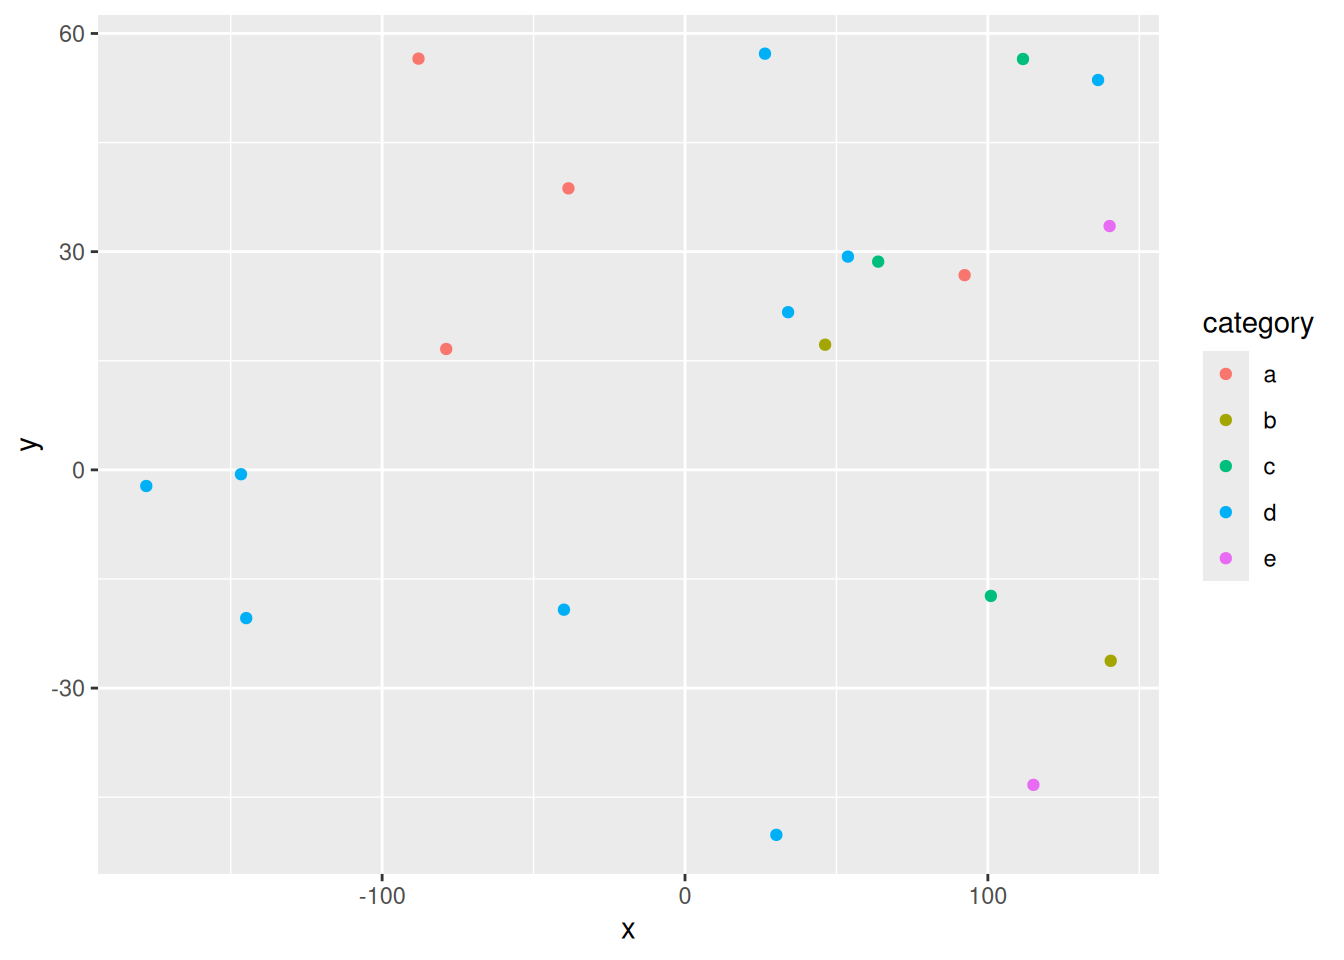
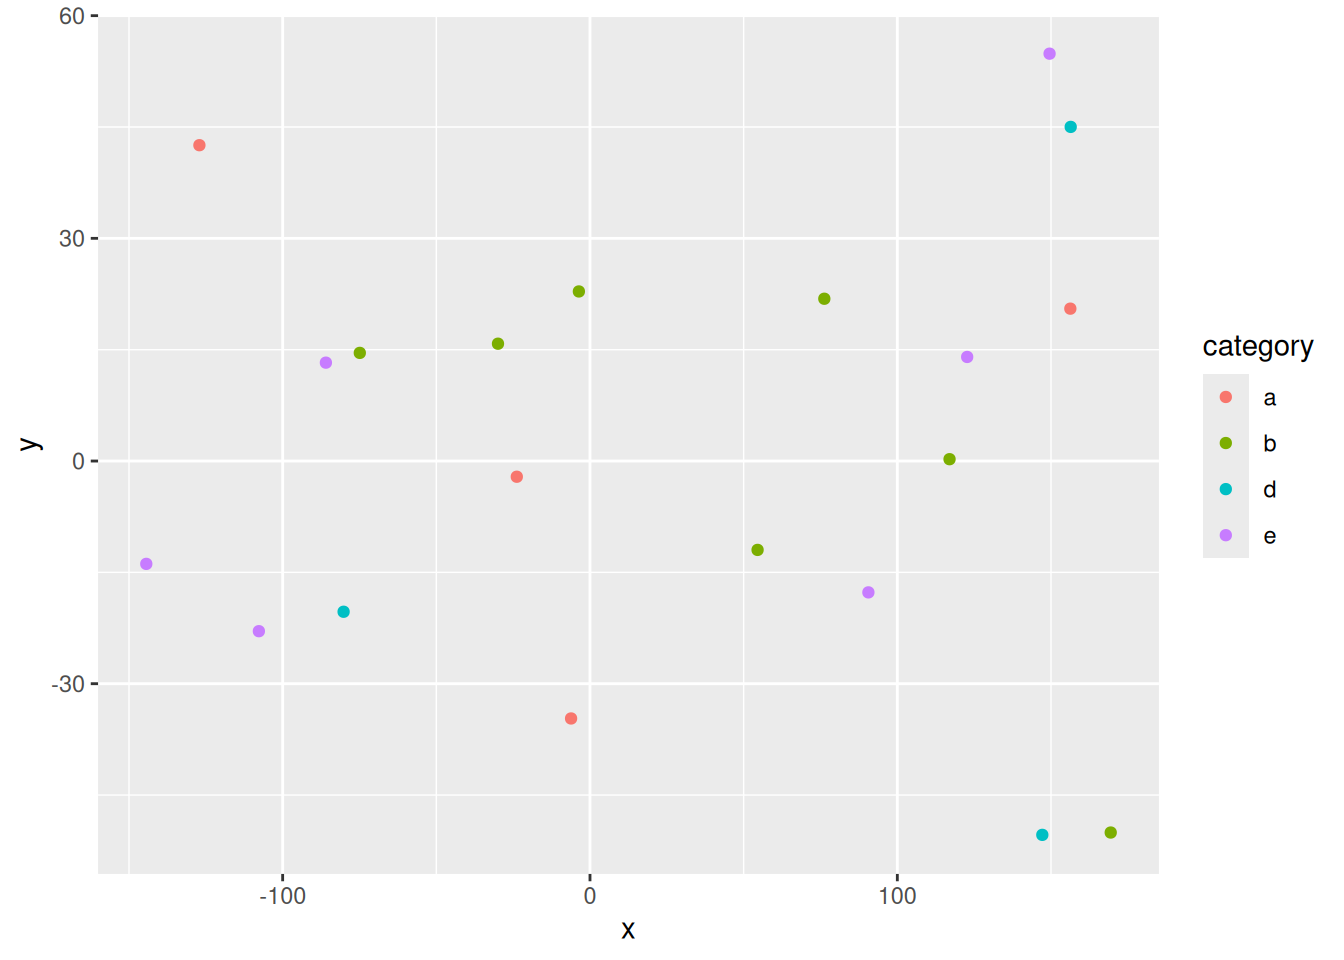
Built site for gh-pages

diff --git a/index.html b/index.html
@@ -7,7 +7,7 @@
 <meta name="viewport" content="width=device-width, initial-scale=1.0, user-scalable=yes">
 
 <meta name="author" content="Your name here">
-<meta name="dcterms.date" content="2025-10-23">
+<meta name="dcterms.date" content="2025-11-01">
 
 <title>My Final Project Template – GEO511_FinalProject</title>
 <style>
@@ -190,7 +190,7 @@ pre > code.sourceCode > span > a:first-child::before { text-decoration: underlin
     <div>
     <div class="quarto-title-meta-heading">Published</div>
     <div class="quarto-title-meta-contents">
-      <p class="date">October 23, 2025</p>
+      <p class="date">November 1, 2025</p>
     </div>
   </div>
   
@@ -271,74 +271,74 @@ pre > code.sourceCode > span > a:first-child::before { text-decoration: underlin
 </thead>
 <tbody>
 <tr class="odd">
-<td style="text-align: center;">53.79</td>
-<td style="text-align: center;">29.32</td>
-<td style="text-align: center;">12.93</td>
-<td style="text-align: center;">d</td>
-<td style="text-align: center;">-1.07</td>
-</tr>
-<tr class="even">
-<td style="text-align: center;">-177.87</td>
-<td style="text-align: center;">-2.22</td>
-<td style="text-align: center;">6.03</td>
-<td style="text-align: center;">d</td>
-<td style="text-align: center;">-0.33</td>
-</tr>
-<tr class="odd">
-<td style="text-align: center;">26.41</td>
-<td style="text-align: center;">57.22</td>
-<td style="text-align: center;">10.30</td>
-<td style="text-align: center;">d</td>
-<td style="text-align: center;">0.57</td>
-</tr>
-<tr class="even">
-<td style="text-align: center;">-144.87</td>
-<td style="text-align: center;">-20.38</td>
-<td style="text-align: center;">19.46</td>
-<td style="text-align: center;">d</td>
-<td style="text-align: center;">0.09</td>
-</tr>
-<tr class="odd">
-<td style="text-align: center;">-39.97</td>
-<td style="text-align: center;">-19.22</td>
-<td style="text-align: center;">6.67</td>
-<td style="text-align: center;">d</td>
-<td style="text-align: center;">1.36</td>
-</tr>
-<tr class="even">
-<td style="text-align: center;">111.60</td>
-<td style="text-align: center;">56.49</td>
-<td style="text-align: center;">15.22</td>
-<td style="text-align: center;">c</td>
-<td style="text-align: center;">-1.84</td>
-</tr>
-<tr class="odd">
-<td style="text-align: center;">136.38</td>
-<td style="text-align: center;">53.60</td>
-<td style="text-align: center;">12.09</td>
-<td style="text-align: center;">d</td>
-<td style="text-align: center;">-0.33</td>
-</tr>
-<tr class="even">
-<td style="text-align: center;">30.16</td>
-<td style="text-align: center;">-50.18</td>
-<td style="text-align: center;">5.21</td>
-<td style="text-align: center;">d</td>
-<td style="text-align: center;">0.28</td>
-</tr>
-<tr class="odd">
-<td style="text-align: center;">115.04</td>
-<td style="text-align: center;">-43.30</td>
-<td style="text-align: center;">15.40</td>
+<td style="text-align: center;">122.73</td>
+<td style="text-align: center;">14.02</td>
+<td style="text-align: center;">15.10</td>
 <td style="text-align: center;">e</td>
-<td style="text-align: center;">2.83</td>
+<td style="text-align: center;">0.02</td>
 </tr>
 <tr class="even">
-<td style="text-align: center;">34.04</td>
-<td style="text-align: center;">21.68</td>
-<td style="text-align: center;">8.04</td>
+<td style="text-align: center;">-3.62</td>
+<td style="text-align: center;">22.84</td>
+<td style="text-align: center;">8.61</td>
+<td style="text-align: center;">b</td>
+<td style="text-align: center;">-0.11</td>
+</tr>
+<tr class="odd">
+<td style="text-align: center;">90.58</td>
+<td style="text-align: center;">-17.70</td>
+<td style="text-align: center;">17.40</td>
+<td style="text-align: center;">e</td>
+<td style="text-align: center;">-0.24</td>
+</tr>
+<tr class="even">
+<td style="text-align: center;">147.18</td>
+<td style="text-align: center;">-50.37</td>
+<td style="text-align: center;">6.66</td>
 <td style="text-align: center;">d</td>
-<td style="text-align: center;">0.13</td>
+<td style="text-align: center;">1.54</td>
+</tr>
+<tr class="odd">
+<td style="text-align: center;">-74.90</td>
+<td style="text-align: center;">14.57</td>
+<td style="text-align: center;">15.55</td>
+<td style="text-align: center;">b</td>
+<td style="text-align: center;">-1.93</td>
+</tr>
+<tr class="even">
+<td style="text-align: center;">-23.82</td>
+<td style="text-align: center;">-2.12</td>
+<td style="text-align: center;">18.98</td>
+<td style="text-align: center;">a</td>
+<td style="text-align: center;">-0.53</td>
+</tr>
+<tr class="odd">
+<td style="text-align: center;">-85.93</td>
+<td style="text-align: center;">13.25</td>
+<td style="text-align: center;">18.42</td>
+<td style="text-align: center;">e</td>
+<td style="text-align: center;">0.23</td>
+</tr>
+<tr class="even">
+<td style="text-align: center;">-107.74</td>
+<td style="text-align: center;">-22.92</td>
+<td style="text-align: center;">16.77</td>
+<td style="text-align: center;">e</td>
+<td style="text-align: center;">0.87</td>
+</tr>
+<tr class="odd">
+<td style="text-align: center;">76.25</td>
+<td style="text-align: center;">21.86</td>
+<td style="text-align: center;">16.49</td>
+<td style="text-align: center;">b</td>
+<td style="text-align: center;">0.36</td>
+</tr>
+<tr class="even">
+<td style="text-align: center;">156.41</td>
+<td style="text-align: center;">45.01</td>
+<td style="text-align: center;">6.90</td>
+<td style="text-align: center;">d</td>
+<td style="text-align: center;">0.63</td>
 </tr>
 </tbody>
 </table>
@@ -358,8 +358,8 @@ pre > code.sourceCode > span > a:first-child::before { text-decoration: underlin
 <span id="cb5-4"><a href="#cb5-4" aria-hidden="true" tabindex="-1"></a>  <span class="fu">addPopups</span>(<span class="sc">~</span>x[<span class="dv">2</span>], <span class="sc">~</span>y[<span class="dv">2</span>], <span class="st">"Random popup"</span>)</span>
 <span id="cb5-5"><a href="#cb5-5" aria-hidden="true" tabindex="-1"></a>m  <span class="co"># a map with the default OSM tile layer</span></span></code></pre></div><button title="Copy to Clipboard" class="code-copy-button"><i class="bi"></i></button></div>
 <div class="cell-output-display">
-<div class="leaflet html-widget html-fill-item" id="htmlwidget-3500131f43f1b51f72bf" style="width:100%;height:325px;"></div>
-<script type="application/json" data-for="htmlwidget-3500131f43f1b51f72bf">{"x":{"options":{"crs":{"crsClass":"L.CRS.EPSG3857","code":null,"proj4def":null,"projectedBounds":null,"options":{}}},"calls":[{"method":"addTiles","args":["https://{s}.tile.openstreetmap.org/{z}/{x}/{y}.png",null,null,{"minZoom":0,"maxZoom":18,"tileSize":256,"subdomains":"abc","errorTileUrl":"","tms":false,"noWrap":false,"zoomOffset":0,"zoomReverse":false,"opacity":1,"zIndex":1,"detectRetina":false,"attribution":"&copy; <a href=\"https://openstreetmap.org/copyright/\">OpenStreetMap<\/a>,  <a href=\"https://opendatacommons.org/licenses/odbl/\">ODbL<\/a>"}]},{"method":"addCircleMarkers","args":[[29.32143260724843,-2.217056108638644,57.22122785635293,-20.38027443923056,-19.22183451242745,56.48714544251561,53.60004108399153,-50.18150324933231,-43.30370276235044,21.67820437811315,33.52087682113051,28.62943145446479,56.54016640037298,16.61862932145596,-17.33095253817737,-26.25238973647356,26.77203113213181,-0.5999741144478321,17.20906298607588,38.70516300201416],[53.78805935382843,-177.8660380281508,26.41120305284858,-144.865376483649,-39.96949796564877,111.5983105637133,136.3840375375003,30.16264208592474,115.0356755778193,34.03960238210857,140.1912639196962,63.78247238695621,-87.98833577893674,-78.8395537622273,100.9929083380848,140.5605056136847,92.32321000657976,-146.5976640768349,46.26656021922827,-38.4827397018671],[12.93352014850825,6.034817178733647,10.30200644163415,19.46151993819512,6.674930345034227,15.21806569653563,12.08990148035809,5.20958787179552,15.40103744948283,8.03518156753853,18.64350995398127,10.58376577566378,19.494179940084,9.645543943624943,7.847512232838199,10.61626432463527,18.99728662101552,6.590229156427085,12.28545587393455,15.88225798564963],null,null,{"interactive":true,"className":"","stroke":true,"color":["d","d","d","d","d","c","d","d","e","d","e","c","a","a","c","b","a","d","b","a"],"weight":5,"opacity":0.5,"fill":true,"fillColor":["d","d","d","d","d","c","d","d","e","d","e","c","a","a","c","b","a","d","b","a"],"fillOpacity":0.2},null,null,null,null,null,{"interactive":false,"permanent":false,"direction":"auto","opacity":1,"offset":[0,0],"textsize":"10px","textOnly":false,"className":"","sticky":true},null]},{"method":"addPopups","args":[-2.217056108638644,-177.8660380281508,"Random popup",null,null,{"maxWidth":300,"minWidth":50,"autoPan":true,"keepInView":false,"closeButton":true,"className":""}]}],"limits":{"lat":[-50.18150324933231,57.22122785635293],"lng":[-177.8660380281508,140.5605056136847]}},"evals":[],"jsHooks":[]}</script>
+<div class="leaflet html-widget html-fill-item" id="htmlwidget-9642b581e4a0239b3e56" style="width:100%;height:325px;"></div>
+<script type="application/json" data-for="htmlwidget-9642b581e4a0239b3e56">{"x":{"options":{"crs":{"crsClass":"L.CRS.EPSG3857","code":null,"proj4def":null,"projectedBounds":null,"options":{}}},"calls":[{"method":"addTiles","args":["https://{s}.tile.openstreetmap.org/{z}/{x}/{y}.png",null,null,{"minZoom":0,"maxZoom":18,"tileSize":256,"subdomains":"abc","errorTileUrl":"","tms":false,"noWrap":false,"zoomOffset":0,"zoomReverse":false,"opacity":1,"zIndex":1,"detectRetina":false,"attribution":"&copy; <a href=\"https://openstreetmap.org/copyright/\">OpenStreetMap<\/a>,  <a href=\"https://opendatacommons.org/licenses/odbl/\">ODbL<\/a>"}]},{"method":"addCircleMarkers","args":[[14.02024855837226,22.84449904225767,-17.69662275910378,-50.36507402546704,14.56741743721068,-2.117128847166896,13.25262903235853,-22.9237753059715,21.8624574970454,45.0129815004766,-20.30733805149794,0.2465492952615023,54.87850592471659,20.52744780667126,15.80524262040854,42.54820981062949,-50.05076989531517,-34.6840147767216,-11.97501084767282,-13.85667144320905],[122.7275673206896,-3.617026163265109,90.5846219882369,147.1754133235663,-74.89889510907233,-23.81551204249263,-85.93201738782227,-107.7382970508188,76.24526303261518,156.412390395999,-80.17114925198257,116.9904230721295,149.5372159592807,156.2934339232743,-29.93632449768484,-127.0885173138231,169.432473666966,-6.154904253780842,54.52802248299122,-144.370560888201],[15.09692265419289,8.612273432081565,17.4026532669086,6.65683982311748,15.54638453992084,18.9804825745523,18.41621060040779,16.7709357466083,16.48633217439055,6.899349467130378,11.87351050670259,7.232816740870476,8.550432361662388,10.69422153872438,12.17064257944003,13.23369475430809,7.313346388982609,7.342913018073887,18.26211233856156,14.63713923702016],null,null,{"interactive":true,"className":"","stroke":true,"color":["e","b","e","d","b","a","e","e","b","d","d","b","e","a","b","a","b","a","b","e"],"weight":5,"opacity":0.5,"fill":true,"fillColor":["e","b","e","d","b","a","e","e","b","d","d","b","e","a","b","a","b","a","b","e"],"fillOpacity":0.2},null,null,null,null,null,{"interactive":false,"permanent":false,"direction":"auto","opacity":1,"offset":[0,0],"textsize":"10px","textOnly":false,"className":"","sticky":true},null]},{"method":"addPopups","args":[22.84449904225767,-3.617026163265109,"Random popup",null,null,{"maxWidth":300,"minWidth":50,"autoPan":true,"keepInView":false,"closeButton":true,"className":""}]}],"limits":{"lat":[-50.36507402546704,54.87850592471659],"lng":[-144.370560888201,169.432473666966]}},"evals":[],"jsHooks":[]}</script>
 <p>Map of completely random data</p>
 </div>
 </div>
@@ -382,8 +382,8 @@ pre > code.sourceCode > span > a:first-child::before { text-decoration: underlin
 <span id="cb7-2"><a href="#cb7-2" aria-hidden="true" tabindex="-1"></a><span class="fu">dygraph</span>(nhtemp, <span class="at">main =</span> <span class="st">"New Haven Temperatures"</span>) <span class="sc">|&gt;</span> </span>
 <span id="cb7-3"><a href="#cb7-3" aria-hidden="true" tabindex="-1"></a>  <span class="fu">dyRangeSelector</span>(<span class="at">dateWindow =</span> <span class="fu">c</span>(<span class="st">"1920-01-01"</span>, <span class="st">"1960-01-01"</span>)) </span></code></pre></div><button title="Copy to Clipboard" class="code-copy-button"><i class="bi"></i></button></div>
 <div class="cell-output-display">
-<div class="dygraphs html-widget html-fill-item" id="htmlwidget-f2fcaa111210c8c0810b" style="width:100%;height:464px;"></div>
-<script type="application/json" data-for="htmlwidget-f2fcaa111210c8c0810b">{"x":{"attrs":{"title":"New Haven Temperatures","labels":["year","V1"],"legend":"auto","retainDateWindow":false,"axes":{"x":{"pixelsPerLabel":60}},"showRangeSelector":true,"dateWindow":["1920-01-01T00:00:00.000Z","1960-01-01T00:00:00.000Z"],"rangeSelectorHeight":40,"rangeSelectorPlotFillColor":" #A7B1C4","rangeSelectorPlotStrokeColor":"#808FAB","interactionModel":"Dygraph.Interaction.defaultModel"},"scale":"yearly","annotations":[],"shadings":[],"events":[],"format":"date","data":[["1912-01-01T00:00:00.000Z","1913-01-01T00:00:00.000Z","1914-01-01T00:00:00.000Z","1915-01-01T00:00:00.000Z","1916-01-01T00:00:00.000Z","1917-01-01T00:00:00.000Z","1918-01-01T00:00:00.000Z","1919-01-01T00:00:00.000Z","1920-01-01T00:00:00.000Z","1921-01-01T00:00:00.000Z","1922-01-01T00:00:00.000Z","1923-01-01T00:00:00.000Z","1924-01-01T00:00:00.000Z","1925-01-01T00:00:00.000Z","1926-01-01T00:00:00.000Z","1927-01-01T00:00:00.000Z","1928-01-01T00:00:00.000Z","1929-01-01T00:00:00.000Z","1930-01-01T00:00:00.000Z","1931-01-01T00:00:00.000Z","1932-01-01T00:00:00.000Z","1933-01-01T00:00:00.000Z","1934-01-01T00:00:00.000Z","1935-01-01T00:00:00.000Z","1936-01-01T00:00:00.000Z","1937-01-01T00:00:00.000Z","1938-01-01T00:00:00.000Z","1939-01-01T00:00:00.000Z","1940-01-01T00:00:00.000Z","1941-01-01T00:00:00.000Z","1942-01-01T00:00:00.000Z","1943-01-01T00:00:00.000Z","1944-01-01T00:00:00.000Z","1945-01-01T00:00:00.000Z","1946-01-01T00:00:00.000Z","1947-01-01T00:00:00.000Z","1948-01-01T00:00:00.000Z","1949-01-01T00:00:00.000Z","1950-01-01T00:00:00.000Z","1951-01-01T00:00:00.000Z","1952-01-01T00:00:00.000Z","1953-01-01T00:00:00.000Z","1954-01-01T00:00:00.000Z","1955-01-01T00:00:00.000Z","1956-01-01T00:00:00.000Z","1957-01-01T00:00:00.000Z","1958-01-01T00:00:00.000Z","1959-01-01T00:00:00.000Z","1960-01-01T00:00:00.000Z","1961-01-01T00:00:00.000Z","1962-01-01T00:00:00.000Z","1963-01-01T00:00:00.000Z","1964-01-01T00:00:00.000Z","1965-01-01T00:00:00.000Z","1966-01-01T00:00:00.000Z","1967-01-01T00:00:00.000Z","1968-01-01T00:00:00.000Z","1969-01-01T00:00:00.000Z","1970-01-01T00:00:00.000Z","1971-01-01T00:00:00.000Z"],[49.9,52.3,49.4,51.1,49.4,47.9,49.8,50.9,49.3,51.9,50.8,49.6,49.3,50.6,48.4,50.7,50.9,50.6,51.5,52.8,51.8,51.1,49.8,50.2,50.4,51.6,51.8,50.9,48.8,51.7,51,50.6,51.7,51.5,52.1,51.3,51,54,51.4,52.7,53.1,54.6,52,52,50.9,52.6,50.2,52.6,51.6,51.9,50.5,50.9,51.7,51.4,51.7,50.8,51.9,51.8,51.9,53]]},"evals":["attrs.interactionModel"],"jsHooks":[]}</script>
+<div class="dygraphs html-widget html-fill-item" id="htmlwidget-d568d2589586018a912a" style="width:100%;height:464px;"></div>
+<script type="application/json" data-for="htmlwidget-d568d2589586018a912a">{"x":{"attrs":{"title":"New Haven Temperatures","labels":["year","V1"],"legend":"auto","retainDateWindow":false,"axes":{"x":{"pixelsPerLabel":60}},"showRangeSelector":true,"dateWindow":["1920-01-01T00:00:00.000Z","1960-01-01T00:00:00.000Z"],"rangeSelectorHeight":40,"rangeSelectorPlotFillColor":" #A7B1C4","rangeSelectorPlotStrokeColor":"#808FAB","interactionModel":"Dygraph.Interaction.defaultModel"},"scale":"yearly","annotations":[],"shadings":[],"events":[],"format":"date","data":[["1912-01-01T00:00:00.000Z","1913-01-01T00:00:00.000Z","1914-01-01T00:00:00.000Z","1915-01-01T00:00:00.000Z","1916-01-01T00:00:00.000Z","1917-01-01T00:00:00.000Z","1918-01-01T00:00:00.000Z","1919-01-01T00:00:00.000Z","1920-01-01T00:00:00.000Z","1921-01-01T00:00:00.000Z","1922-01-01T00:00:00.000Z","1923-01-01T00:00:00.000Z","1924-01-01T00:00:00.000Z","1925-01-01T00:00:00.000Z","1926-01-01T00:00:00.000Z","1927-01-01T00:00:00.000Z","1928-01-01T00:00:00.000Z","1929-01-01T00:00:00.000Z","1930-01-01T00:00:00.000Z","1931-01-01T00:00:00.000Z","1932-01-01T00:00:00.000Z","1933-01-01T00:00:00.000Z","1934-01-01T00:00:00.000Z","1935-01-01T00:00:00.000Z","1936-01-01T00:00:00.000Z","1937-01-01T00:00:00.000Z","1938-01-01T00:00:00.000Z","1939-01-01T00:00:00.000Z","1940-01-01T00:00:00.000Z","1941-01-01T00:00:00.000Z","1942-01-01T00:00:00.000Z","1943-01-01T00:00:00.000Z","1944-01-01T00:00:00.000Z","1945-01-01T00:00:00.000Z","1946-01-01T00:00:00.000Z","1947-01-01T00:00:00.000Z","1948-01-01T00:00:00.000Z","1949-01-01T00:00:00.000Z","1950-01-01T00:00:00.000Z","1951-01-01T00:00:00.000Z","1952-01-01T00:00:00.000Z","1953-01-01T00:00:00.000Z","1954-01-01T00:00:00.000Z","1955-01-01T00:00:00.000Z","1956-01-01T00:00:00.000Z","1957-01-01T00:00:00.000Z","1958-01-01T00:00:00.000Z","1959-01-01T00:00:00.000Z","1960-01-01T00:00:00.000Z","1961-01-01T00:00:00.000Z","1962-01-01T00:00:00.000Z","1963-01-01T00:00:00.000Z","1964-01-01T00:00:00.000Z","1965-01-01T00:00:00.000Z","1966-01-01T00:00:00.000Z","1967-01-01T00:00:00.000Z","1968-01-01T00:00:00.000Z","1969-01-01T00:00:00.000Z","1970-01-01T00:00:00.000Z","1971-01-01T00:00:00.000Z"],[49.9,52.3,49.4,51.1,49.4,47.9,49.8,50.9,49.3,51.9,50.8,49.6,49.3,50.6,48.4,50.7,50.9,50.6,51.5,52.8,51.8,51.1,49.8,50.2,50.4,51.6,51.8,50.9,48.8,51.7,51,50.6,51.7,51.5,52.1,51.3,51,54,51.4,52.7,53.1,54.6,52,52,50.9,52.6,50.2,52.6,51.6,51.9,50.5,50.9,51.7,51.4,51.7,50.8,51.9,51.8,51.9,53]]},"evals":["attrs.interactionModel"],"jsHooks":[]}</script>
 </div>
 </div>
 </section>
@@ -474,7 +474,7 @@ pre > code.sourceCode > span > a:first-child::before { text-decoration: underlin
     }
       var localhostRegex = new RegExp(/^(?:http|https):\/\/localhost\:?[0-9]*\//);
       var mailtoRegex = new RegExp(/^mailto:/);
-        var filterRegex = new RegExp("https:\/\/AdamWilsonLabEDU\.github\.io\/GEO511_QuartoProjectTemplate\/");
+        var filterRegex = new RegExp("https:\/\/mbgursoy\.github\.io\/Final_Proj\/");
       var isInternal = (href) => {
           return filterRegex.test(href) || localhostRegex.test(href) || mailtoRegex.test(href);
       }

diff --git a/about.html b/about.html
@@ -252,7 +252,7 @@ pre > code.sourceCode > span > a:first-child::before { text-decoration: underlin
     }
       var localhostRegex = new RegExp(/^(?:http|https):\/\/localhost\:?[0-9]*\//);
       var mailtoRegex = new RegExp(/^mailto:/);
-        var filterRegex = new RegExp("https:\/\/AdamWilsonLabEDU\.github\.io\/GEO511_QuartoProjectTemplate\/");
+        var filterRegex = new RegExp("https:\/\/mbgursoy\.github\.io\/Final_Proj\/");
       var isInternal = (href) => {
           return filterRegex.test(href) || localhostRegex.test(href) || mailtoRegex.test(href);
       }

diff --git a/data/Readme.html b/data/Readme.html
@@ -198,7 +198,7 @@ ul.task-list li input[type="checkbox"] {
     }
       var localhostRegex = new RegExp(/^(?:http|https):\/\/localhost\:?[0-9]*\//);
       var mailtoRegex = new RegExp(/^mailto:/);
-        var filterRegex = new RegExp("https:\/\/AdamWilsonLabEDU\.github\.io\/GEO511_QuartoProjectTemplate\/");
+        var filterRegex = new RegExp("https:\/\/mbgursoy\.github\.io\/Final_Proj\/");
       var isInternal = (href) => {
           return filterRegex.test(href) || localhostRegex.test(href) || mailtoRegex.test(href);
       }
